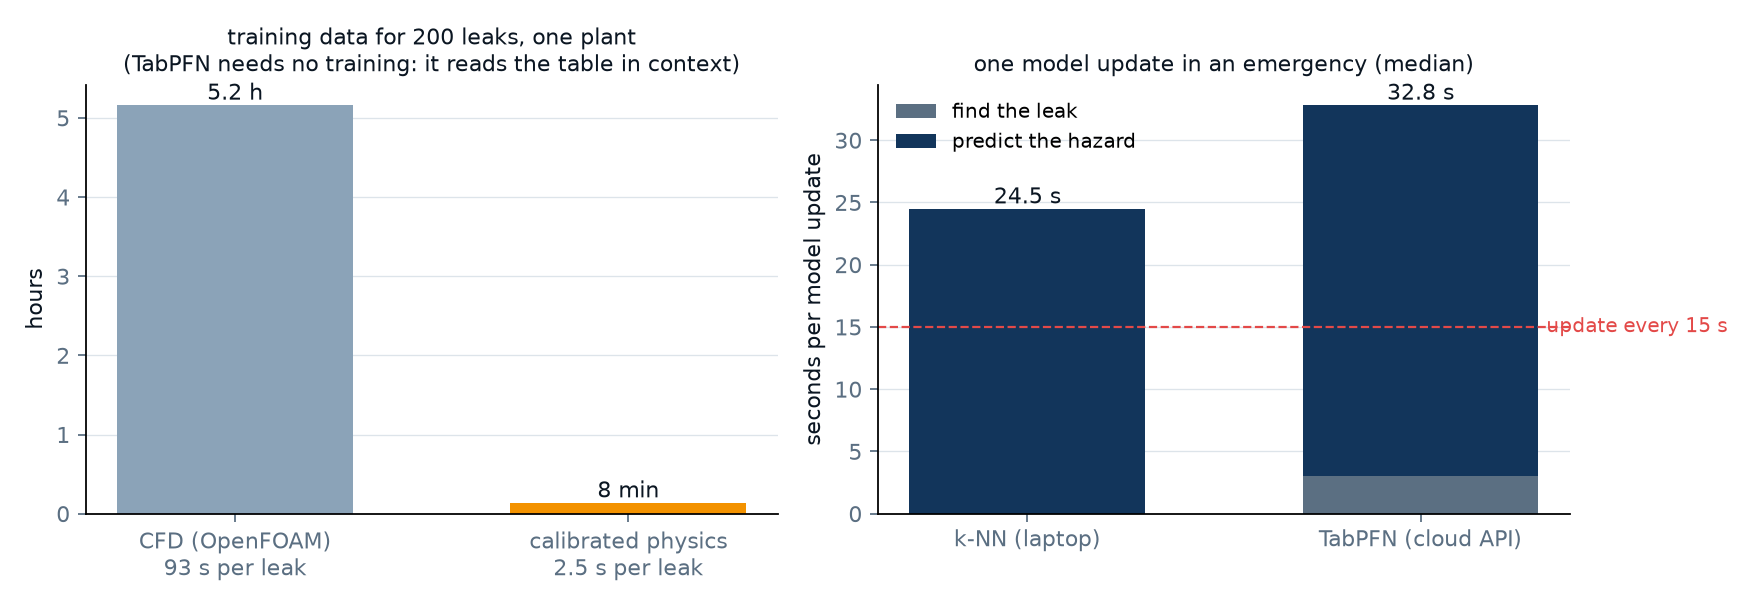
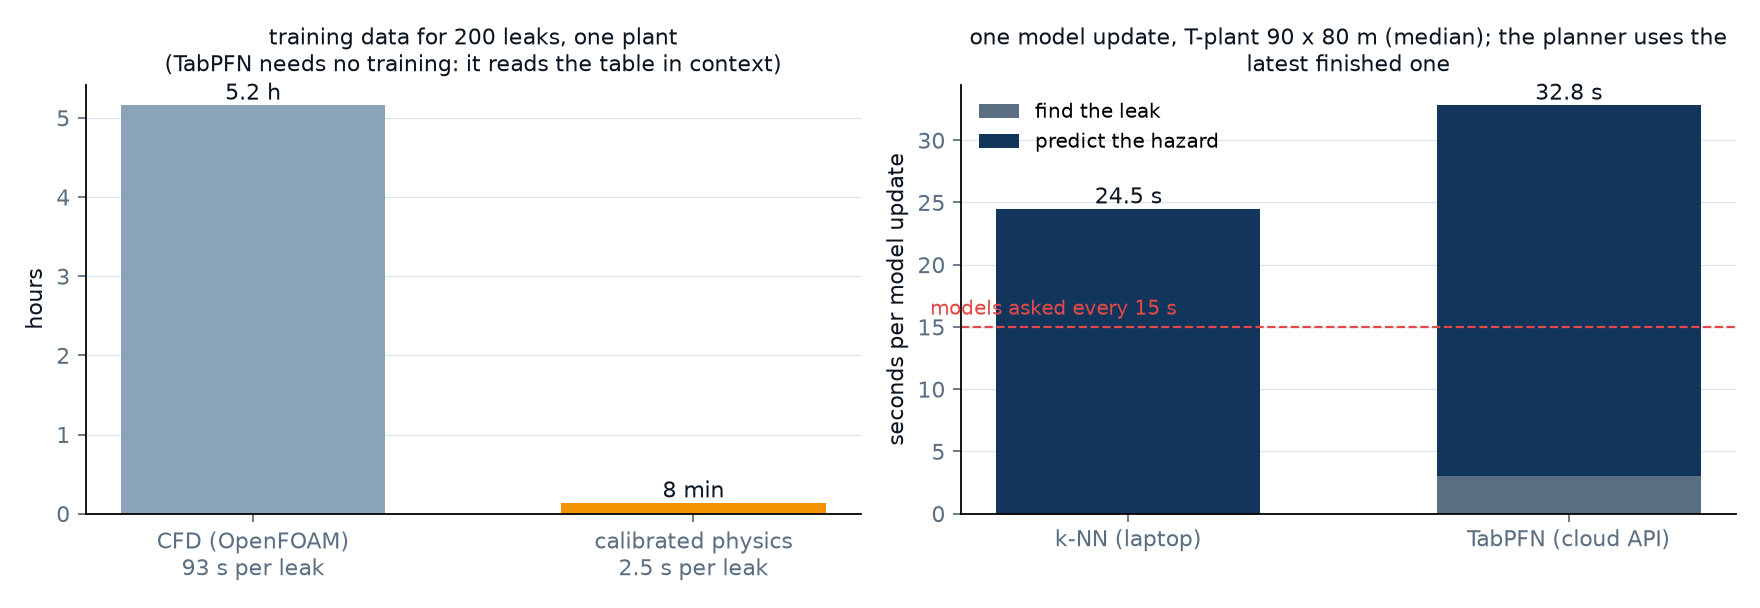
Compute figure: honest latency caption (above 15 s on the T-plant); Next lists it

diff --git a/src/tabpfn_spatial/world/web/index.html b/src/tabpfn_spatial/world/web/index.html
@@ -167,6 +167,7 @@
       <ul class="next">
         <li>Live replanning when the gas moves fast (updates every 5 s, the hard case).</li>
         <li>Hazard model trained near the plume: catch more of the harmful air.</li>
+        <li>Updates under 15 s on large halls (today 33 s): fewer forecast times, a coarser grid far from the leak.</li>
         <li>Tell people how to move: stay low for light gas, stay high for heavy gas.</li>
         <li>Real sites: ventilation layouts, robots as mobile detectors, phones and signs as the display.</li>
       </ul>

diff --git a/src/tabpfn_spatial/evac/final_compare.py b/src/tabpfn_spatial/evac/final_compare.py
@@ -213,10 +213,11 @@ def compute(summary: dict, latency: dict, out: Path) -> Path:
     for x, v in enumerate(bottoms):
         ax.text(x, v, f"{v:.1f} s", ha="center", va="bottom", fontsize=10, color=INK)
     ax.axhline(15, color="#e34948", lw=1, ls="--")
-    ax.text(1.32, 15, "update every 15 s", va="center", fontsize=9, color="#e34948")
+    ax.text(-0.45, 15.6, "models asked every 15 s", va="bottom", fontsize=9, color="#e34948")
     ax.set_xticks([0, 1], ["k-NN (laptop)", "TabPFN (cloud API)"])
     ax.set_ylabel("seconds per model update", color=INK)
-    ax.set_title("one model update in an emergency (median)", color=INK, fontsize=10)
+    ax.set_title("one model update, T-plant 90 x 80 m (median); the planner uses the\n"
+                 "latest finished one", color=INK, fontsize=10)  # fmt: skip
     ax.legend(frameon=False, fontsize=9, loc="upper left")
     _style(ax)
     fig.tight_layout()

diff --git a/src/tabpfn_spatial/gallery.py b/src/tabpfn_spatial/gallery.py
@@ -56,7 +56,7 @@ SECTIONS = (
     ("6 · Why TabPFN", [
         ("final", "3-accuracy-real.png", "Real gas data: TabPFN vs a classic k-NN."),
         ("final", "2-accuracy-factory.png", "3D factory: TabPFN vs k-NN, per plant."),
-        ("final", "4-compute.png", "No training, cheap physics, fast updates."),
+        ("final", "4-compute.png", "No training, cheap physics; update latency still above 15 s."),
         ("shapes", "locator.png", "Leak position error on unseen plants."),
     ]),
     ("7 · Next", [
